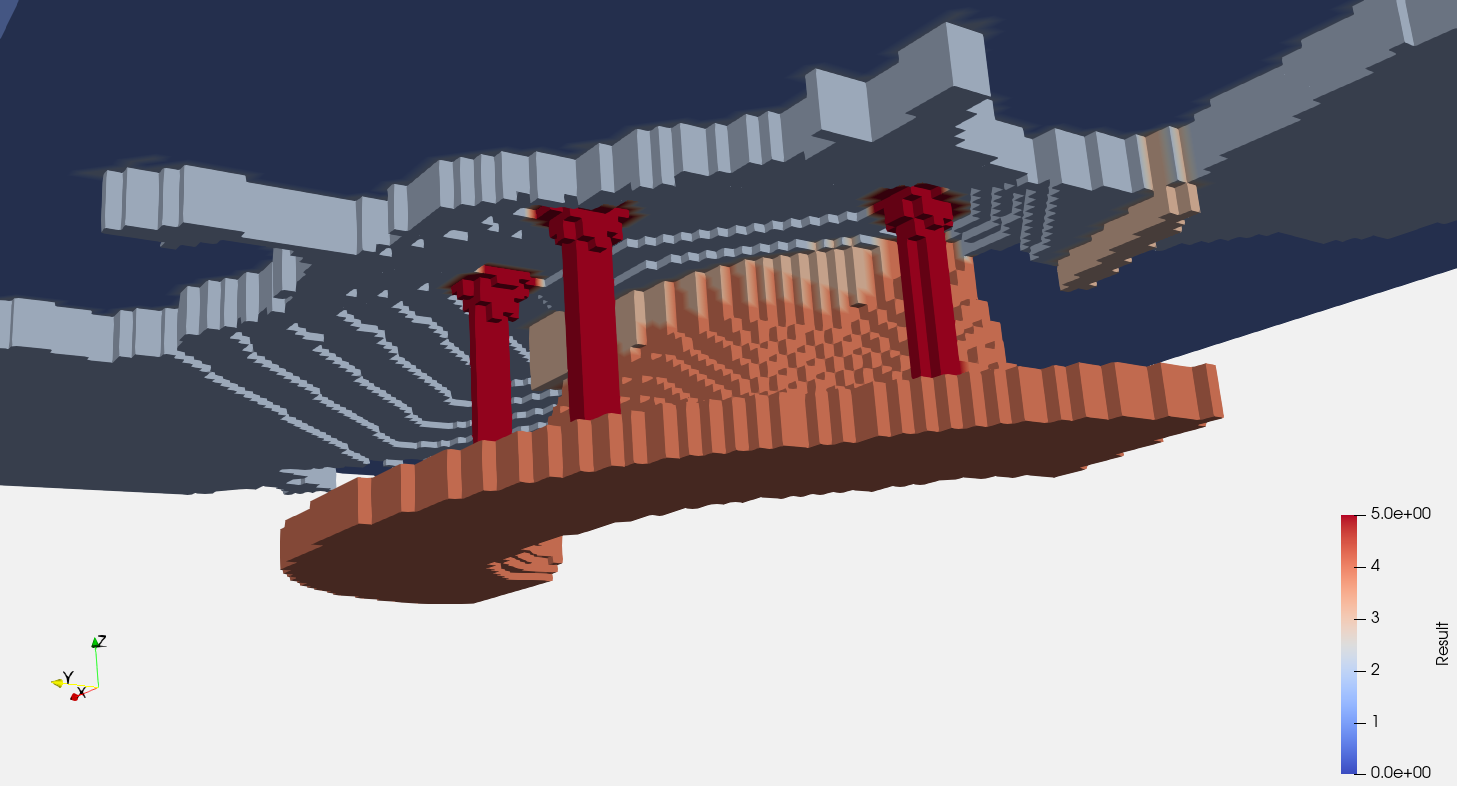
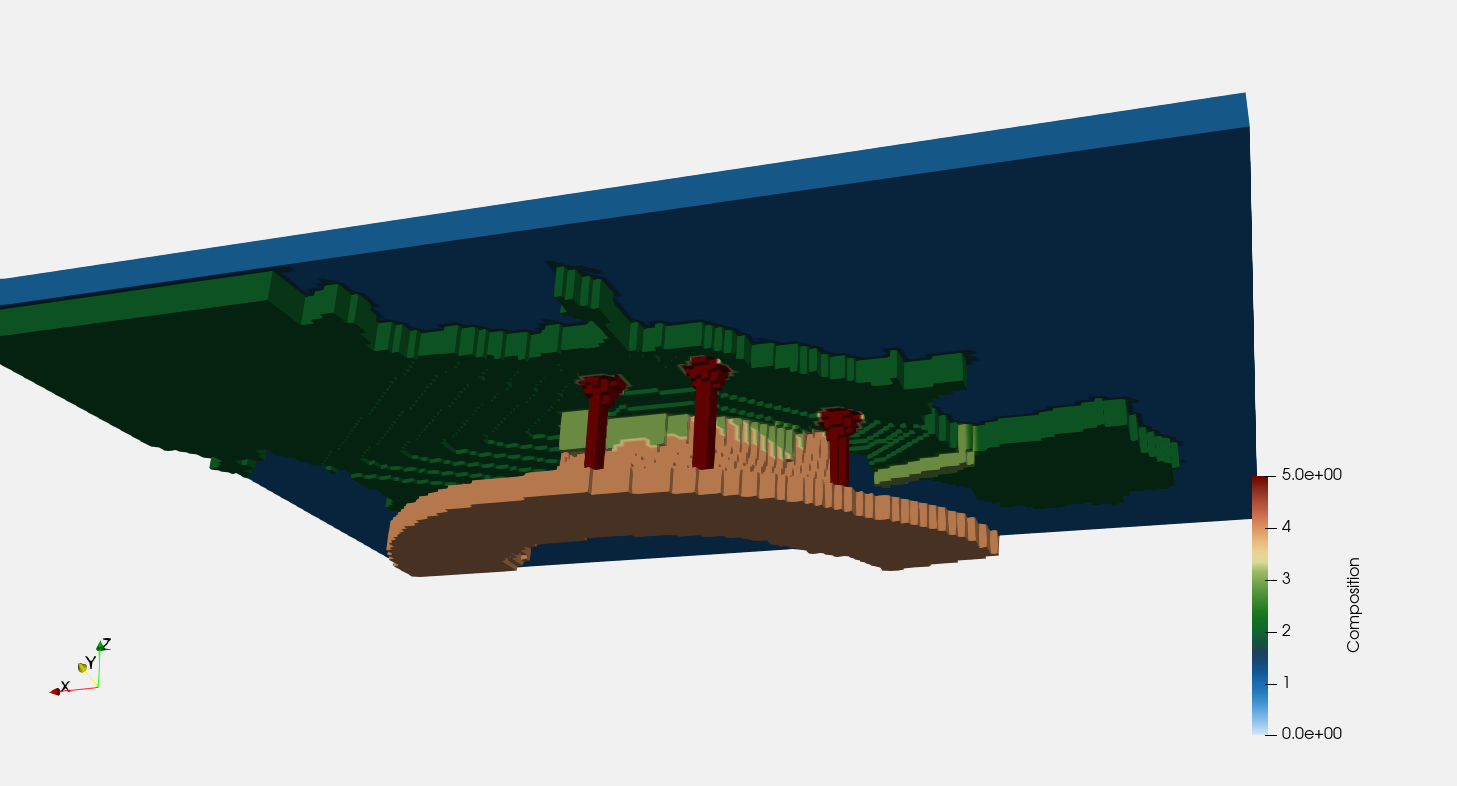
modified colourbar and colourmap of figures and adjusted README of the cookbook

diff --git a/cookbooks/3d_cartesian_big_mantle_wedge_Europe/doc/README.md b/cookbooks/3d_cartesian_big_mantle_wedge_Europe/doc/README.md
@@ -58,7 +58,7 @@ The region is 4000 x 3000 x 660 km Cartesian box (x,y,z) representing continenta
 :align: center
 :::
 
-Figure (1): different colours represent different features: oceanic plate (dark blue), continental plate (light blue), mountain ranges (pink), intra-continental volcanic provinces (red)
+Figure (1): different colours represent different features: oceanic plate (dark blue), continental plate (dark green), mountain ranges (light green), intra-continental volcanic provinces (orange)
 
 :::{figure}  big_mantle_wedge_Europe_mantle_view.png
 :name:  big_mantle_wedge_Europe_mantle_view
@@ -66,7 +66,7 @@ Figure (1): different colours represent different features: oceanic plate (dark 
 :align: center
 :::
 
-Figure (2): different colours represent different features: oceanic plate (dark blue), continental plate (light blue), mountain ranges (pink), intra-continental volcanic provinces and subducted slab (red)
+Figure (2): different colours represent different features: oceanic plate (dark blue), continental plate (dark green), mountain ranges (light green), and subducted slab (orange)
 
 :::{figure}  big_mantle_wedge_Europe_plumes_view.png
 :name:  big_mantle_wedge_Europe_plumes_view
@@ -74,4 +74,4 @@ Figure (2): different colours represent different features: oceanic plate (dark 
 :align: center
 :::
 
-Figure (3): different colours represent different features: oceanic plate (dark blue), continental plate (light blue), mountain ranges (light pink), intra-continental volcanic provinces and subducted slab (dark pink), ascending plumes (red)
+Figure (3): different colours represent different features: oceanic plate (dark blue), continental plate (dark green), mountain ranges (light green), subducted slab (orange), intra-continental volcanic provinces and ascending plumes (red)

diff --git a/CHANGELOG.md b/CHANGELOG.md
@@ -11,7 +11,8 @@ This project adheres to [Semantic Versioning](https://semver.org/spec/v2.0.0.htm
 
 ## [Unreleased]
 ### Added
-
+- Added a new cookbook to reproduce the Big Mantle Wedge setting beneath Europe 
+\[Enrico Marzotto; 2026-03-31; [#911](https://github.com/GeodynamicWorldBuilder/WorldBuilder/pull/911)\]
 - Added Perlin noise models for composition and temperature across features, and gwb-dat coverage tests for Cartesian Perlin noise inputs. \[Tilman May; 2026-03-29; [#906](https://github.com/GeodynamicWorldBuilder/WorldBuilder/pull/906)\]
 
 ### Changed
